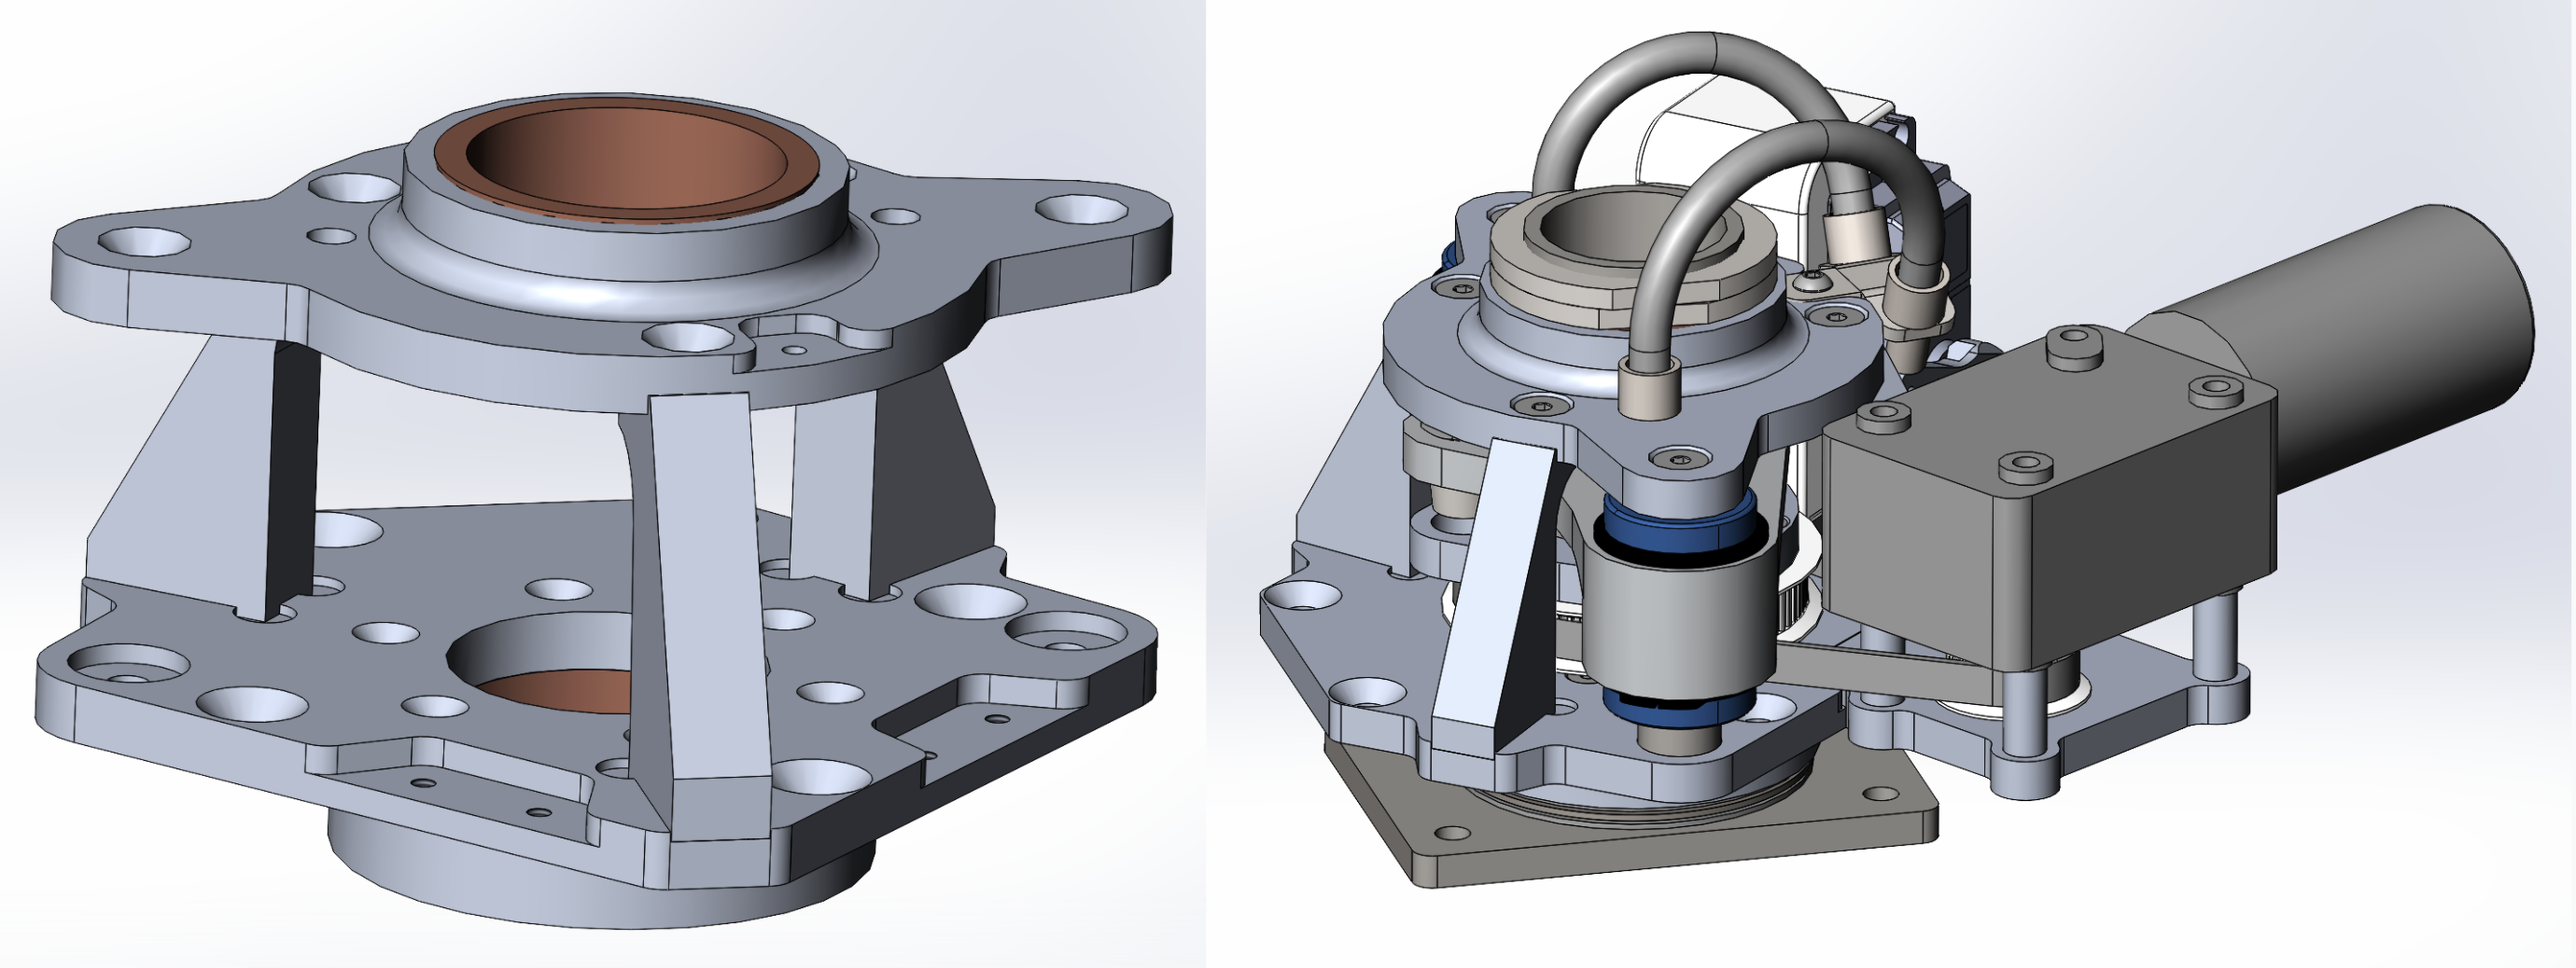
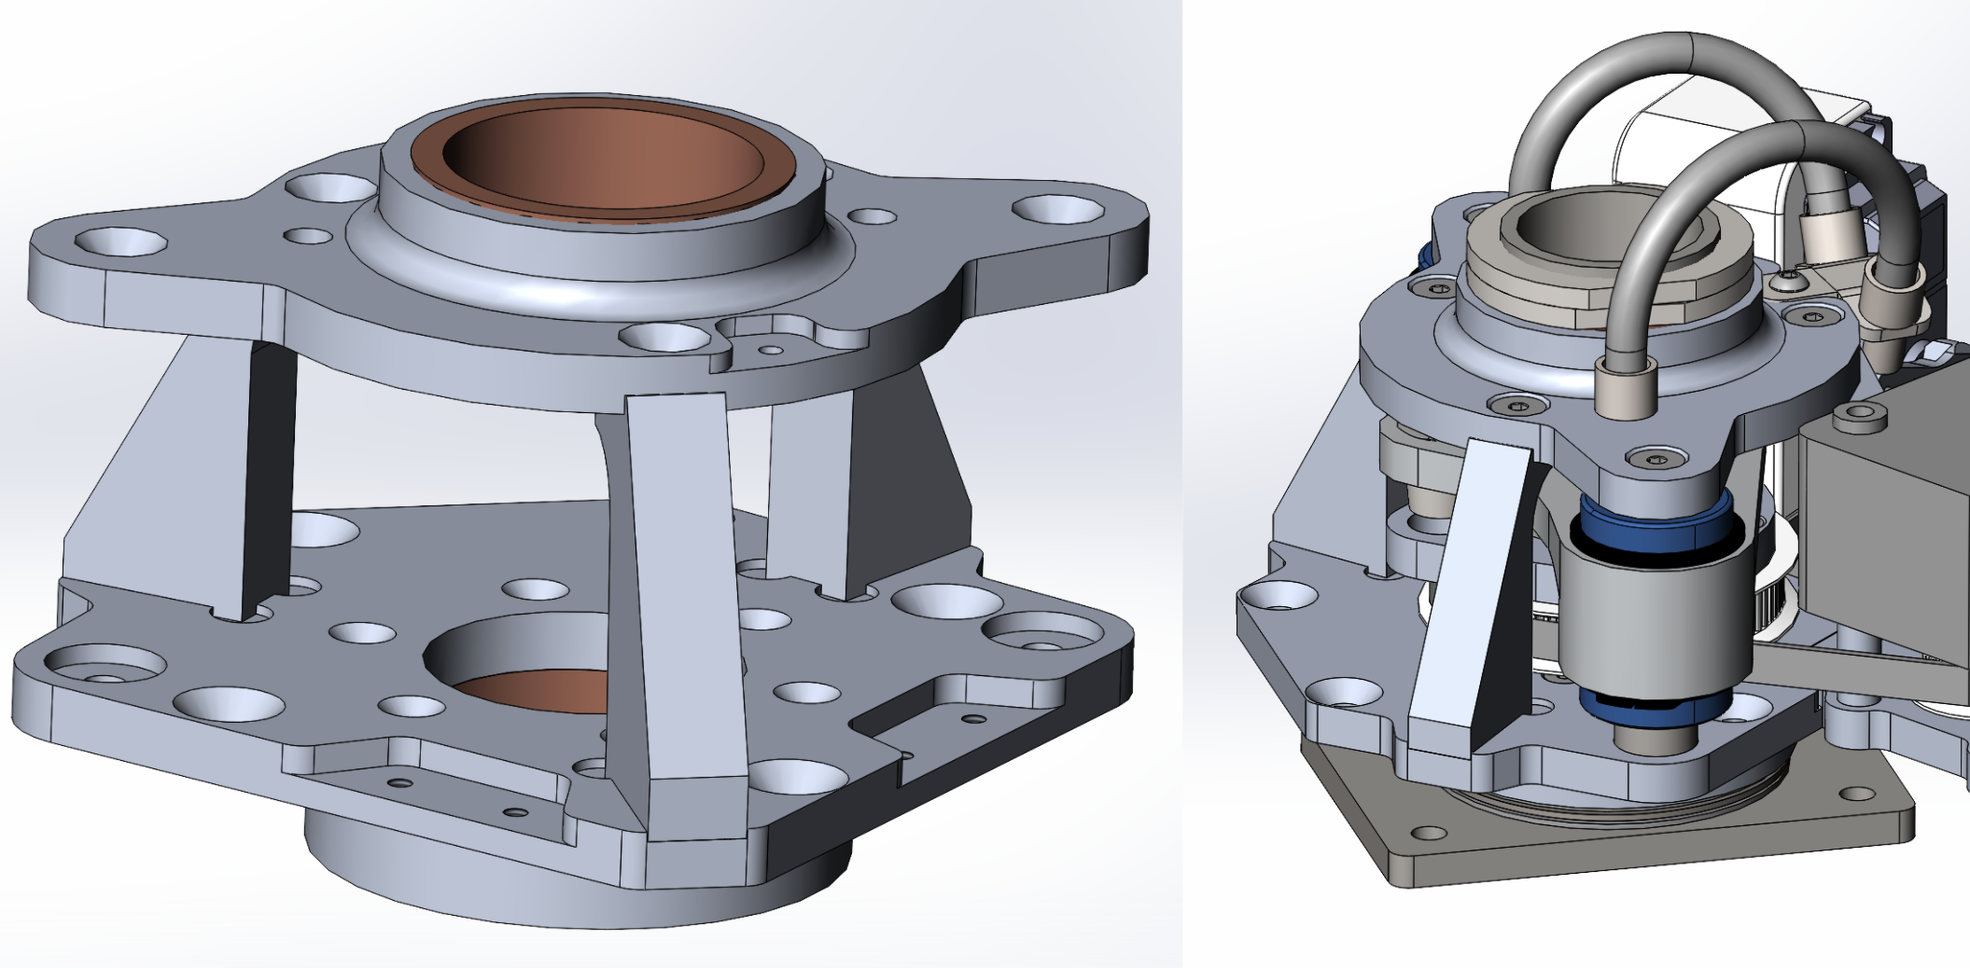
updated semi auto eboard page

diff --git a/pages/semi_auto_eboard.html b/pages/semi_auto_eboard.html
@@ -17,12 +17,41 @@
 					<div class="content">
 						<h1>Semi-Auto Eboard</h1>
 						<p>April 2021 - Present</p>
-						<p class="major">It was an unusually hot, humid spring day. I was walking to class carrying my heavy backpack over my sweat drenched back when I thought of a way I could both carry my stuff and get to class quicker. My idea was to make an electric longboard with a person-following mode: a semi-autonomous longboard. When I am not riding, it could follow me around carrying my stuff. This project piqued my interest because of its mechanical and software duality — a perfect way for me to develop my experience with robotic systems. At the time of writing, this project is not yet done but is considerably far along since most of the theoretical design has been completed.</p>
+						<p class="major">It was an unusually hot, humid spring day. I was trudging home after a long day of lectures when I thought of an interesting solution to my last-mile transportation predicament. What if I had an electric skateboard that could also carry my stuff?</p>
+						<p class="major">My idea was to make an electric longboard with a person-following mode: a semi-autonomous longboard. This way I would not have to carry it and it could also carry my stuff. This project piqued my interest because of its mechanical and software duality. At the time of writing, I have simulated, designed, and manufactured all mechanical components of the Semi-Auto Eboard. I am currently implementing the tracking feature using ultra-wide band ranging.</p>
 					</div>
 					<div class="image">
-						<img src="../images/semi_auto_eboard/semi_auto_eboard_cad.png" alt=""/>
+						<img src="../images/semi_auto_eboard/control_electronics.jpg" alt=""/>
 					</div>
 				</section>
+
+					<section class="spotlight style1 orient-right content-align-left image-position-center onscroll-image-fade-in">
+						<div class="content">
+							<h2>Mechanical Challenges</h2>
+							<p>Making a longboard robotically steerable proved more challenging than expected. I needed a mechanism that could both robotically steer the longboard, but also robust enough for me to ride the longboard normally.</p>
+						</div>
+						<div class="image">
+							<img src="../images/semi_auto_eboard/asethetic_module.jpg" alt="" />
+						</div>
+					</section>
+
+					<section class="spotlight style1 orient-left content-align-left image-position-center onscroll-image-fade-in">
+						<div class="content">
+							<p>My solution was to put the entire truck on a rotating turret with a clutch to lock it in place. Designing the module to be compact and able withstand the dynamic loads of riding, leaning, and going over bumps at high speeds was very challenging.</p>
+						</div>
+						<div class="image">
+							<img src="../images/semi_auto_eboard/semi_auto_eboard_tube.png" alt="" />
+						</div>
+					</section>
+
+					<section class="spotlight style1 orient-right content-align-left image-position-center onscroll-image-fade-in">
+						<div class="content">
+							<p>From personal experience, I decided that riding over a large crack in the road would be my worst case impact scenario. To calculate the impact loads, I wrote a lagrangian mechanics python simulation from scratch. To double check, I also made a simulation using the dynamics simulator ADAMS to simulate a simplified model of the board going over a bump.</p>
+						</div>
+						<div class="image">
+							<img src="../images/semi_auto_eboard/semi_auto_eboard_adams.png" alt="" />
+						</div>
+					</section>
 
 					<section class="spotlight style1 orient-left content-align-left image-position-center onscroll-image-fade-in" id="first">
 						<div class="content">
@@ -36,16 +65,18 @@
 
 					<section class="spotlight style1 orient-right content-align-left image-position-center onscroll-image-fade-in">
 						<div class="content">
-							<p>The center shaft has a welded boss which interfaces with a 3D printed pulley that steers and rotates the whole shaft. Since there are so many features required of this center shaft, designing all the welded parts to be manufacturable and weldable was challenging and involved strategically placed chamfers and undercuts.</p>
+							<p>The most challenging part of this design was coming up with a mechanism that could lock the steering module from turning when I want to ride the board normally and unlock when I want it to follow me around. After exploring many different locking mechanisms, I decided to create my own simple pin and hole clutch.</p>
 						</div>
 						<div class="image">
-							<img src="../images/semi_auto_eboard/semi_auto_eboard_tube.png" alt="" />
+							<img src="../images/semi_auto_eboard/clutch_up_down.png" alt="" />
 						</div>
 					</section>
-
+					
 					<section class="spotlight style1 orient-left content-align-left image-position-center onscroll-image-fade-in">
 						<div class="content">
-							<p>The most challenging part of this design was coming up with a mechanism that could lock the steering module from turning when I want to ride the board normally and unlock when I want it to follow me around. Backlash in the locking mechanism also needed to be mitigated since that would make it unstable to ride. After exploring many different locking mechanisms, I decided to create my own simple pin and hole clutch. The steering module will have a tapered hole and the clutch plate would have a matching tapered pin that would fit into the hole. The taper is to prevent backlash.</p>
+							<p></p>
+							<p>The head tube has a locking arm with a tapered hole. The clutch plate has a corresponding tapered pin that mates with the tapered hole. Since the clutch plate is always spring loaded to compress into the hole, most of the backlash from the pin and hole interface is eliminated.</p>
+							<p></p>
 						</div>
 						<div class="image">
 							<img src="../images/semi_auto_eboard/semi_auto_eboard_clutch.png" alt="" />
@@ -54,34 +85,50 @@
 
 					<section class="spotlight style1 orient-right content-align-left image-position-center onscroll-image-fade-in">
 						<div class="content">
-							<h2>Mechanical Challenges</h2>
-							<p>Making a longboard robotically steerable proved more challenging than intuitively expected. Since the longboard must also autonomously carry a payload, I could not make the entire board lean to steer. Instead I decided to put the entire powertrain on a rotating turret. Now the challenge was making this module as compact as possible while still being able to withstand the dynamic loads of riding, leaning, and going over bumps at high speeds.</p>
-						</div>
-						<!-- <div class="image">
-							<img src="../images/semi_auto_eboard/semi_auto_eboard_adams.png" alt="" />
-						</div> -->
-					</section>
-
-					<section class="spotlight style1 orient-right content-align-left image-position-center onscroll-image-fade-in">
-						<div class="content">
-							<p> These requirements meant a lot of hand calculations to spec bearings, shafts, and pins. To calculate the impact force on the module while going over a bump, I used Matlab to solve a spring damper system I modeled after the board. To double check, I also used the dynamics simulator ADAMS to simulate a simplified model of the board going over a bump.</p>
-							<p>At the time of writing this, the steering module is nearing the end of its first design cycle and I am preparing to manufacture the parts.</p>
+							<p></p>
+							<p></p>
+							<p></p>
+							<p>A servo arm pulls on two cables which pulls the clutch plate upwards. The cables are routed through two black cable housings in the top.</p>
+							<p>The steering motor is a 90-deg drive motor with a built-in encoder. It is coupled to the center shaft using timing belts and pulleys.</p>
+							<p></p>
+							<p></p>
+							<p></p>
 						</div>
 						<div class="image">
-							<img src="../images/semi_auto_eboard/semi_auto_eboard_adams.png" alt="" />
+							<img src="../images/semi_auto_eboard/motors_annotated.png" alt="" />
 						</div>
 					</section>
 
 					<section class="spotlight style1 orient-left content-align-left image-position-center onscroll-image-fade-in">
 						<div class="large_content">
-							<h2>Software Challenges</h2>
-							<p>For my tracking requirements, I wanted the board to be able to work indoors and outdoors, follow me through tight turns, and keep close to me if I was walking through crowded areas. Through my research, I was immediately daunted by how difficult it would be to make a robust computer vision system that could track me through multiple environments and be able to recover from interruptions in case I was blocked from view. It was just going to be too laborious.</p>
-							<p>The next best option for me was to have my board follow some sort of a beacon using GPS, W-Fi, or Bluetooth but these signal technologies are all too coarse for precise distance measurements. Around this time, Apple had just released AirTags which is an indoor tracking beacon and it worked exactly how I imagined my longboard would work — real time, precise positioning down to a few centimeters.</p>
-							<p>I found out that AirTags use ultra wideband which, unlike Bluetooth or Wi-Fi, relies on time of flight instead of signal strength to calculate distance between transmitter and receiver. The only issue is that the technology is not as widespread and thus more expensive to implement. At the time of writing I have specced the ultra wideband transceiver but the rest of the software and controls for this project are still being researched.</p>
+							<h2>Controls (ongoing)</h2>
+							<p>I want the board to follow me me indoors and outdoors, through tight turns, and through crowded areas. To do this, I decided to go with beacon tracking with ultra-wide band ranging modules because of their robustness in multiple environments, high precision, and relative simplicity.</p>
+							<p>Thus far, I have successfully implemented a “remote control” mode for my longboard. I designed a custom remote with a two-pot joystick where a long press can toggle between “riding mode” and “RC mode”. When in “RC mode” the servo lifts the clutch plate and a position feedback loop is used to turn the steering motor.</p>
+							<p>At the time of writing, I have started experimenting with ultra-wide band modules and have begun implementing the tracking features.</p>
 						</div>
 						<!-- <div class="image">
-							<img src="../images/semi_auto_eboard/semi_auto_eboard_module_clutch.png" alt="" />
+							<img src="../images/semi_auto_eboard/eboard_battery.jpg" alt="" />
 						</div> -->
+					</section>
+
+					<section class="spotlight style1 orient-left content-align-left image-position-center onscroll-image-fade-in">
+						<div class="large_content">
+							<h2>Electronics</h2>
+							<p>For this project I built my own 12s2p 18650 battery pack from scratch. I chose to make my own pack because it was hard to find a battery with a flat profile that still had a large enough capacity for my liking. The pack is spot welded using nick strips and has an off-the-shelf BMS.</p>
+						</div>
+						<div class="image">
+							<img src="../images/semi_auto_eboard/eboard_battery.jpg" alt="" />
+						</div>
+					</section>
+					<section class="spotlight style1 orient-right content-align-left image-position-center onscroll-image-fade-in">
+						<div class="large_content">
+							<p>I am using a Dual Fesc 6.6 Mini. This is based on the open-source VESC designs which has built-in encoder support and data logging. 
+							<p>To control the steering motor, I am using a cheap L298N motor driver.</p>
+							<p>For my microcontroller, I am using an ESP32 Feather. The ESP32 Feather has multiple ADC channels, multiple PWM channels, and eight timers. This made it possible to drive servos, run feedback loops, and manage encoder inputs simultaneously.</p>
+						</div>
+						<div class="image">
+							<img src="../images/semi_auto_eboard/control_electronics.jpg" alt="" />
+						</div>
 					</section>
 
 				<!-- Footer -->

diff --git a/index.html b/index.html
@@ -31,14 +31,14 @@
 
 						<div class="content">
 							<h2>Semi-auto Eboard</h2>
-							<p>April 2021 - Present</p>
+							<p>April 2021-Present</p>
 							<ul class="actions stacked">
 								<li><a href="pages/semi_auto_eboard.html" class="button">See More</a></li>
 							</ul>
 						</div>
 
 						<div class="image">
-							<img  src="images/semi_auto_eboard/semi_auto_eboard_cad.png" alt="" />
+							<img  src="images/semi_auto_eboard/asethetic_module2.jpg" alt="" />
 						</div>
 					</section>
 
@@ -47,7 +47,7 @@
 					<section class="spotlight style5 orient-right content-align-left image-position-center onscroll-image-fade-in">
 						<div class="content">
 							<h2>Northwestern Formula</h2>
-							<p>Sept 2020-Present</p>
+							<p>Sept 2020-Dec 2021</p>
 							<ul class="actions stacked">
 								<li><a href="pages/formula.html" class="button">See More</a></li>
 							</ul>
